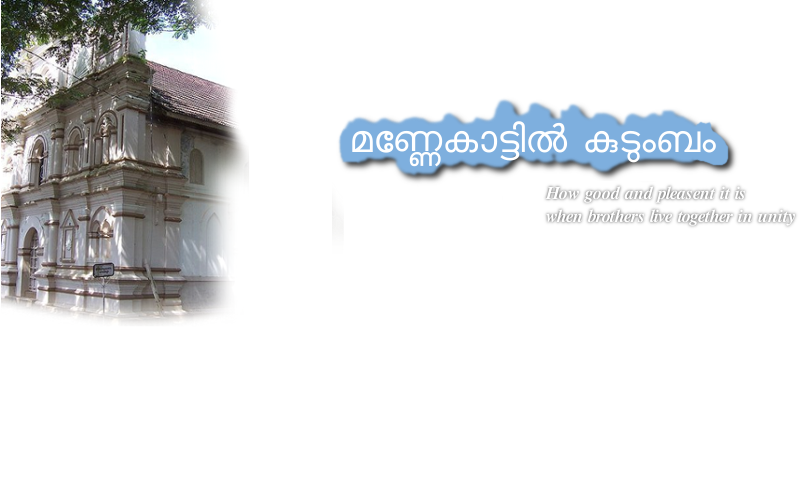
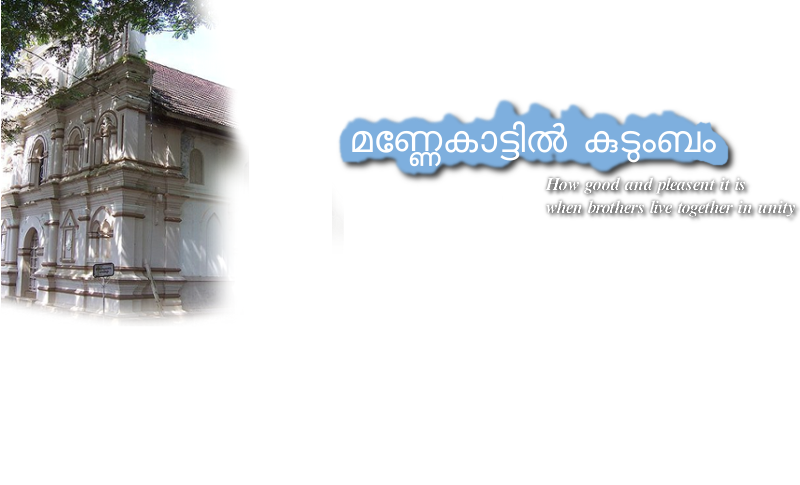
sujith updates

Changed region(s): [[0.6875, 0.3711, 1.0, 0.4639]]

diff --git a/public/stylesheets/family.css b/public/stylesheets/family.css
@@ -47,7 +47,7 @@ h1 {
 
 h5 {
     font-family:Serif, Arial;
-    font-size:18px;
+    font-size:16px;
     font-weight:bold;
     text-align:right;
     color:blue;
@@ -82,8 +82,9 @@ h5 {
     color:blue;
     text-align:center;
     float:left;
+    outline:0px;
 }
-#menu div.mnu_active a{
+#menu div.mnu_active a, #menu div.mnu_active a:hover{
     text-align:center;
 
     background-image:url('../images/menu/new/mnu_active.png');
@@ -97,6 +98,7 @@ h5 {
     color:#000;
     text-align:center;
     float:left;
+    outline:0px;
 
 
 
@@ -107,6 +109,7 @@ h5 {
     color:#000;
     background-image:url('../images/menu/new/mnu_normal_vertical_piece_hover.png');
     background-repeat:repeat-x;
+    outline:0px;
 }
 
 
@@ -192,7 +195,9 @@ h5 {
     margin:0px;
     margin-left:1px;
     border:none;
-    color:blue;
+    color:#000;
+    background-color:#7eafde;
+    font-size:16px;
 }
 
 #family_container table tbody tr td {
@@ -232,6 +237,7 @@ h5 {
 }
 
 
+
 #events_container h2.box a img{
     padding:0px;
     margin:0px;
@@ -245,8 +251,9 @@ h5 {
     margin:0px;
     margin-left:1px;
     border:none;
-    color:blue;
-}
+    color:#000;
+    background-color:#7eafde;
+    font-size:16px;}
 
 #events_container table tbody tr td {
     font-size:13px;
@@ -265,12 +272,10 @@ h5 {
     font-size:13px;
     width:178px;
 }
-
 #news_container {
     width:180px;
     height:150px;
-    margin-top:70px;
-
+    /*margin-top:70px;*/
     border-style:solid;
     border-width:1px;
     border-color:#4587ba;
@@ -293,8 +298,9 @@ h5 {
     margin:0px;
     margin-left:1px;
     border:none;
-    color:blue;
-}
+    color:#000;
+    background-color:#7eafde;
+    font-size:16px;}
 
 #news_container table tbody tr td {
     font-size:13px;
@@ -393,10 +399,12 @@ h5 {
 #right_menu_container2 a {
     color:black;
     text-decoration:none;
+    outline:0px;
 }
-#right_menu_container2 a:hover {
+#right_menu_container2 a:hover, #right_menu_container2 a:focus {
     color:blue;
     text-decoration:none;
+    outline:0px;
 }
 
 h3 {
@@ -462,7 +470,7 @@ h3 {
     float:left;
     text-align:justify;
     width:560px;
-    margin-left:200px;
+    margin-left:250px;
     margin-top:20px;
 }
 #home_page_description p{
@@ -558,15 +566,17 @@ h2.box a {
     color:white;
 }
 .footer_spacing {
-    background-color:#021c2e;
-    height:100px;
+    background-color:#fff;
+    height:30px;
     width:100%;
     margin:0px;
     padding:0px;
+    color:#000;
 }
 #footer {
-  color:#000;
-  text-align:center;
+    background-color:#fff;
+    color:#000;
+    text-align:center;
 }
 
 .father img {

diff --git a/config/environment.rb b/config/environment.rb
@@ -7,8 +7,7 @@ RAILS_GEM_VERSION = '2.3.11' unless defined? RAILS_GEM_VERSION
 require File.join(File.dirname(__FILE__), 'boot')
 
 Rails::Initializer.run do |config|
-   config.gem 'will_paginate'
-#, :version => '~> 2.3.16'
+   config.gem 'will_paginate', :version => '~> 2.3.16'
 
   # Settings in config/environments/* take precedence over those specified here.
   # Application configuration should go into files in config/initializers

diff --git a/app/helpers/galleries_helper.rb b/app/helpers/galleries_helper.rb
@@ -3,7 +3,7 @@ module GalleriesHelper
   def tag_list(galleries)
     @tag_list = ""
     galleries.each do |tag|
-      @tag_list =  @tag_list + link_to (tag.tags,:controller=>'galleries',:action=>'index',:tag_id=>tag.tags) + ", "
+      @tag_list =  @tag_list + link_to(tag.tags,:controller=>'galleries',:action=>'index',:tag_id=>tag.tags) + ", "
     end
     @tag_list = @tag_list.chop![0..-2] if @tag_list
 

diff --git a/db/schema.rb b/db/schema.rb
@@ -139,10 +139,9 @@ ActiveRecord::Schema.define(:version => 20111204050234) do
 
   create_table "posts", :force => true do |t|
     t.string   "name"
-    t.integer  "level",      :null => false
     t.datetime "created_at"
     t.datetime "updated_at"
-
+    t.integer  "level"
   end
 
   create_table "relations", :force => true do |t|
